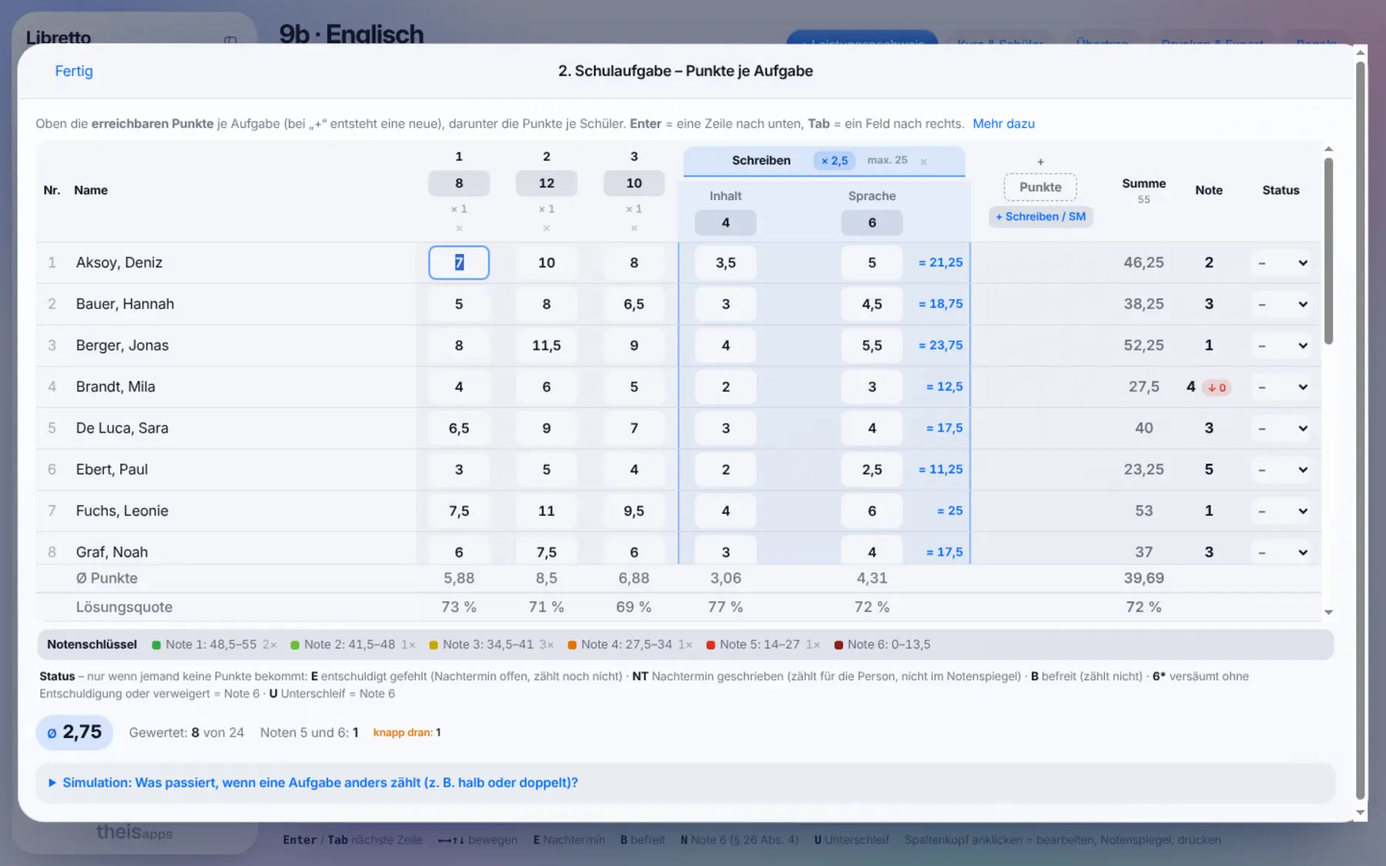
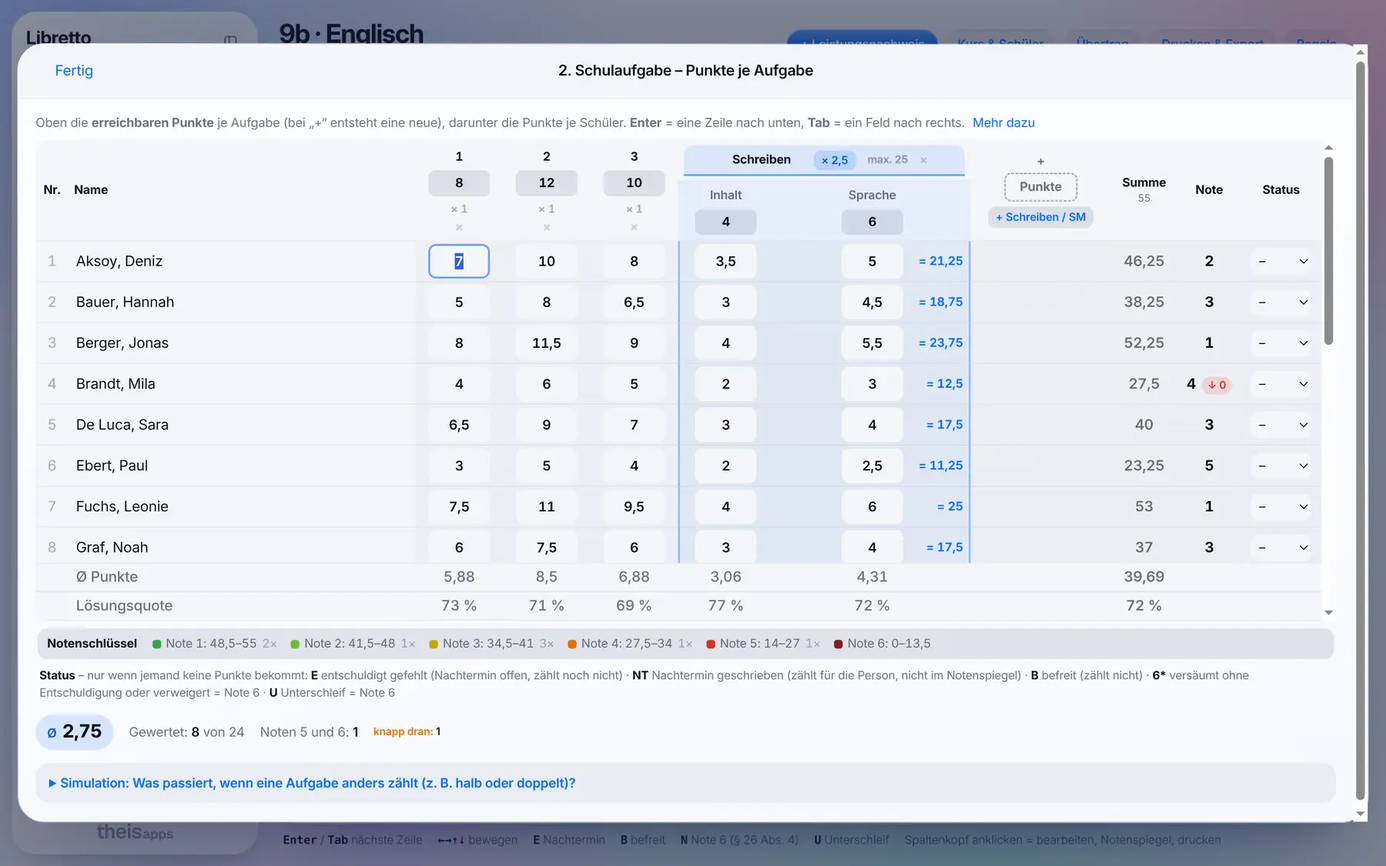
Libretto: schärfere Bildschirmfotos, neues Bild „Kurs aus mehreren Klassen“
Claude-Session: https://claude.ai/code/session_01CYga6QpGAYaLVUB4AhPBBg

diff --git a/libretto/index.html b/libretto/index.html
@@ -40,7 +40,7 @@
 <a class="crumb" href="../#programme">Programme / Libretto</a>
 <div class="ah"><div><div class="id"><img src="../assets/img/libretto-icon.png?v=ca2144a5" alt="Libretto App-Symbol" width="72" height="72" style="view-transition-name:ic-libretto"><span class="badge">Version 1.1</span></div><h1>Noten führen, ohne <span class="hl">nachzurechnen</span></h1></div>
 <div class="r"><p>Noten eintragen, rechnen, ausdrucken – nach GSO, für alle Fächer von der 5. Klasse bis zum Abitur. Kostenlos, ohne Konto, die Daten bleiben verschlüsselt auf Ihrem Computer.</p><div class="btns"><a class="btn" href="#laden" data-dl="libretto">Herunterladen</a><a class="btn sec" href="demo/">Online-Demo ausprobieren</a></div><p class="small">Für Mac ab macOS 13 und Windows 10/11. Die Online-Demo arbeitet mit erfundenen Klassen und speichert nichts. <a href="#neu">Neu: am Mac mit Touch ID entsperren, das W-Seminar mit Bewertungsbögen nach der Vorlage des ISB, Fristen fürs Notenmachen und das Leistungsfach Sport</a></p></div></div>
-<div class="app-stage"><div class="laptop"><div class="scr"><img src="../assets/img/libretto-neu-uebersicht.webp?v=29883ae1" alt="Libretto: Übersicht beim Öffnen mit Zu erledigen, Als Nächstes und allen Klassen und Kursen" width="1800" height="1125" decoding="async"></div><div class="base"></div></div></div>
+<div class="app-stage"><div class="laptop"><div class="scr"><img src="../assets/img/libretto-neu-uebersicht.webp?v=f0e8310c" alt="Libretto: Übersicht beim Öffnen mit Zu erledigen, Als Nächstes und allen Klassen und Kursen" width="1800" height="1125" decoding="async"></div><div class="base"></div></div></div>
 <div class="facts"><div><b>Rechnet nach</b><span>GSO, KMK und ISB</span></div><div><b>Läuft auf</b><span>Mac und Windows</span></div><div><b>Daten</b><span>verschlüsselt, nur lokal</span></div><div><b>Preis</b><span>kostenlos</span></div></div>
 <div class="why"><div><h3>Rechnet, wie es in Bayern vorgeschrieben ist</h3><p>Zeugnisnote nach § 28, Halbjahresleistungen nach § 29 GSO, Notenschlüssel nach dem KMK-Raster oder dem Beschluss Ihrer Fachschaft.</p></div><div><h3>Für den Alltag gebaut</h3><p>Note tippen, Enter, nächste Person. Beim Öffnen sehen Sie, was fehlt und was ansteht.</p></div><div><h3>Ihre Daten gehören Ihnen</h3><p>Kein Server, kein Konto, AES-256-Verschlüsselung und automatische Sicherung auf USB-Stick oder Cloud-Ordner.</p></div></div><div class="neu" id="neu"><div class="neu-hd"><span class="neu-tag">Neu in Libretto</span><h2>Was Libretto jetzt zusätzlich kann</h2></div>
 <div class="neu-grid">
@@ -52,12 +52,12 @@
 <article class="neu-card wide list"><h3>Außerdem neu</h3><ul class="neu-list"><li><b>Leistungsfach Sport.</b> Fach Sport und Sporttheorie in einem Kurs, die Endpunktzahl genau nach der Bekanntmachung des Kultusministeriums.</li><li><b>Wie die Rechentabelle des ISB.</b> Hörverstehen in Q12/Q13 rechnet Libretto genau wie die Rechentabelle, dazu Vorlagen für Schulaufgaben nach dem ISB-Leitfaden.</li><li><b>Gastschüler.</b> Mit Zeitraum anlegen; ihre Noten zählen oder werden nur dokumentiert.</li><li><b>Zwischensumme im Aufgabenblatt.</b> Für Schreibaufgabe und Sprachmittlung, z. B. (4 + 6) × 2 = 20, zum Übertragen auf den Korrekturbogen.</li><li><b>An den Datenschutz gedacht.</b> Libretto erinnert an alte Kurse, die nach LDO § 14a gelöscht werden müssen. Löschen oder bewusst behalten, gelöscht wird nie von selbst.</li></ul></article>
 </div></div><div class="fx"><div class="tx"><h2>Übersicht beim Öffnen</h2><p>Libretto zeigt gleich, was zu tun ist: fehlende Noten mit Rückgabefrist nach § 25 GSO, offene Nachtermine, die nächsten vier Wochen, den Durchschnitt je Kurs und die nächsten Fristen fürs Notenmachen (Notenschluss, Zwischenbericht, Zeugnistermine). Links liegen Suche, Kalender, Sicherung und alle Klassen und Kurse.</p><ul class="ticks"><li>Notenverteilung je Kurs auf einen Blick</li><li>Kurse nach Stufen: Unter- und Mittelstufe, Oberstufe ab Jahrgangsstufe 11, Seminare eigens</li><li>Suche nach Schüler oder Kurs mit Strg+K bzw. ⌘K</li><li>Neuer Leistungsnachweis, Übertrag und Notenliste mit einem Klick</li><li>Stand der letzten Sicherung immer sichtbar</li></ul></div>
 <div class="pic"><img src="../assets/img/libretto-uebersicht-notenverteilung.webp?v=57071682" alt="Libretto: Übersicht mit Zu erledigen, Als Nächstes und der Notenverteilung je Kurs" width="1440" height="900" loading="lazy" decoding="async"></div></div><div class="fx rev"><div class="tx"><h2>Acht Farbwelten, sechs Schriften</h2><p>Liquid Glass, Apple, Neon, Heft, Graphit, Laguna, Glut und Wald, jeweils hell und dunkel, auf Wunsch automatisch mit dem Gerät. Dazu sechs Schriften, darunter eine besonders gut lesbare, und eine größere Textgröße für große Bildschirme und den Beamer. Ausdrucke und Notenfarben bleiben immer gleich.</p><ul class="ticks"><li>Einstellen unter Einstellungen und Aussehen</li><li>Gilt nur auf dem jeweiligen Gerät</li><li>In der Demo im Browser zum Ausprobieren</li></ul></div>
-<div class="pic t"><img src="../assets/img/libretto-neu-einstellungen.webp?v=253b3f9f" alt="Libretto: Einstellungen, Bereich Aussehen mit acht Farbwelten, Helligkeit, sechs Schriften und Textgröße" width="1800" height="1125" loading="lazy" decoding="async"></div></div><div class="fx"><div class="tx"><h2>Schnell eintragen, sicher rechnen</h2><p>Noten tippen wie im Infoportal: Note, Enter, nächste Person. Durchschnitte, Gewichtung und Zeugnisnote nach § 28 GSO stehen sofort da, der Klassendurchschnitt unter jeder Spalte.</p><ul class="ticks"><li>Kürzel E (entschuldigt), B (befreit), 6* (versäumt, § 26 Abs. 4) und U (Unterschleif)</li><li>„Rückgängig“, wenn Sie eine Note überschreiben</li><li>Zeugnisnote als Vorschlag, Grenzfälle markiert</li><li>Übertragsliste zum Abhaken: Was steht schon im Infoportal?</li></ul></div>
-<div class="pic"><img src="../assets/img/libretto-neu-tabelle.webp?v=a308d531" alt="Libretto: Notentabelle einer 9. Klasse mit großen und kleinen Leistungsnachweisen, Durchschnitten und Zeugnisnote" width="1800" height="1125" loading="lazy" decoding="async"></div></div><div class="fx rev"><div class="tx"><h2>Punkte rein, Note raus</h2><p>Gesamtpunkte oder Punkte je Aufgabe eingeben, auch direkt aus Excel. Libretto rechnet mit den Prozentgrenzen Ihrer Fachschaft oder nach dem KMK-Raster – und rundet dabei genau wie die amtlichen BE-Tabellen.</p><ul class="ticks"><li>Lösungsquote je Aufgabe</li><li>Aufgaben nachträglich halb oder doppelt werten</li><li>Simulationen: „Was wäre, wenn die 4 bei 55 % beginnt?“ oder „Was wäre, wenn Aufgabe 2 nur halb zählt?“ – mit der ganzen Klassenliste, auch zum Ausdrucken</li><li>Nachtermine zählen für die Person, aber nicht im Notenspiegel der Arbeit (NT)</li></ul></div>
-<div class="pic t"><img src="../assets/img/libretto-neu-aufgaben.webp?v=cf14b25b" alt="Libretto: Punkte je Aufgabe mit Zwischensumme für Schreibaufgabe, Notenschlüssel und Lösungsquote" width="1800" height="1125" loading="lazy" decoding="async"></div></div><div class="fx"><div class="tx"><h2>Für jedes Fach das Passende</h2><p>Libretto kennt die Besonderheiten der Fächer und wählt die passende Rechnung vor.</p><ul class="ticks"><li><b>Moderne Fremdsprachen 5–11:</b> Schreibaufgabe und Sprachmittlung mit Inhalt und Sprache (4 + 6 bzw. 3 + 7) als eine Aufgabe</li><li><b>Q12/13:</b> Klausur nach Prüfungsteilen wie die Rechentabelle des ISB, mit Teilnoten und Sperrklausel</li><li><b>Latein und Griechisch:</b> zweigeteilte Schulaufgabe mit der Gewichtung nach Jahrgangsstufe</li><li><b>Mathematik und Naturwissenschaften:</b> KMK-Raster vorgewählt</li><li><b>Sport, Kunst und Musik als Leistungsfach:</b> Halbjahresleistung nach § 29 Abs. 3–5 GSO</li></ul></div>
-<div class="pic"><img src="../assets/img/libretto-neu-latein.webp?v=28a81eb4" alt="Libretto: zweigeteilte Schulaufgabe in Latein, Übersetzung und Aufgabenteil mit Gewichtung" width="1800" height="1125" loading="lazy" decoding="async"></div></div><div class="fx rev"><div class="tx"><h2>Das W-Seminar auf einer Karte</h2><p>Thema, Beratungsgespräche mit Zielvereinbarung, abgegebene Dateien und die Abgabe mit Frist. Seminararbeit und Prüfungsgespräch bewerten Sie mit den Bögen nach der Vorlage des ISB, Libretto rechnet die Gesamtleistung nach § 29 GSO und weist auf offene Punkte hin. Das P-Seminar ist ebenso dabei, beide Seminare mit ihrem Leitfach.</p><ul class="ticks"><li>Protokoll zum Unterschreiben</li><li>Bewertungsbögen für Seminararbeit und Prüfungsgespräch als PDF oder Word, auch leer</li><li>Terminliste der Prüfungsgespräche und Kurztitel fürs Abiturzeugnis</li><li>Seminararbeit aller Schüler auf einen Blick, mit Countdown</li><li>Die Entscheidung über Zulassung und Fristen bleibt bei der Schule</li></ul></div>
-<div class="pic"><img src="../assets/img/libretto-neu-betreuung.webp?v=00c9c70f" alt="Libretto: Betreuungskarte im W-Seminar mit Thema, Punkten und Betreuungsterminen" width="1800" height="1125" loading="lazy" decoding="async"></div></div><div class="fx"><div class="tx"><h2>Ein Kurs, mehrere Klassen</h2><p>Englisch in der 9. Jahrgangsstufe, aber Schüler aus 9a und 9b? Libretto führt jeden Schüler mit seiner Klasse, sortiert Übersicht und Ausdrucke nach Klassen und rechnet den Kurs trotzdem als Ganzes.</p></div>
-<div class="pic t"><img src="../assets/img/libretto-gemischt.webp?v=d5e7bfff" alt="Libretto: Notentabelle eines Kurses aus zwei Klassen, nach Klassen gegliedert" width="1440" height="860" loading="lazy" decoding="async"></div></div><section class="s"><h2>Und außerdem</h2><div class="grid"><div><h3>Kalender</h3><p>Alle Schulaufgaben mit Prüfung nach § 22 GSO (höchstens ein großer schriftlicher Leistungsnachweis am Tag, möglichst nicht mehr als zwei pro Woche), Ferien und Feiertage in Bayern, Schultermine aus dem Infoportal, auch als Abo, und die Fristen fürs Notenmachen, auf Wunsch direkt aus den Schulterminen übernommen.</p></div><div><h3>Professionelle Ausdrucke</h3><p>PDF, Word oder Excel: Durchschnitt groß, Notenspiegel, Notenschlüssel und die „Auswertung für die Fachbetreuung“ mit Unterschriftsfeldern.</p></div><div><h3>Elternsprechtag</h3><p>Alle Noten einer Person groß auf einen Blick, mit ← und → zur nächsten.</p></div><div><h3>Nachteilsausgleich und Notenschutz</h3><p>Eine Marke am Namen erinnert daran, mit Hinweis auf den Zeugnisvermerk.</p></div><div><h3>Einstieg mitten im Jahr</h3><p>Ein Notenblatt als PDF einlesen. Erst kommt eine Vorschau, bestehende Daten werden nie überschrieben.</p></div><div><h3>Klassen austauschen</h3><p>Klassen und Kurse als Datei „theis-Klassen“ an andere Programme von theisapps weitergeben, ohne Noten. Noten aus Voce übernehmen.</p></div><div><h3>Ausführliche Hilfe</h3><p>Mit Suche, Szenarien für Fachlehrkraft, Klassenleitung, Oberstufe und Fachbetreuung und einem Quellenverzeichnis. Auch als Handbuch-PDF zum Ausdrucken.</p></div><div><h3>Acht Farbwelten</h3><p>Hell oder dunkel, auf Wunsch automatisch, dazu sechs Schriften. Ausdrucke und Notenfarben bleiben immer gleich.</p></div><div><h3>Ein Kurs, viele Fächer</h3><p>Von der 5. Klasse bis zum Abitur, Unter-, Mittel- und Oberstufe in einer Datei.</p></div></div></section><div class="pair"><figure><div class="pic"><img src="../assets/img/libretto-kalender-abo.webp?v=f95916ab" alt="Libretto: Kalender mit Leistungsnachweisen, Ferien und abonniertem Schulkalender" width="1440" height="1000" loading="lazy" decoding="async"></div><figcaption>Der Kalender im November mit Schulaufgaben, Schulterminen und Ferien.</figcaption></figure><figure><div class="pic"><img src="../assets/img/libretto-neu-schuelerblatt.webp?v=f9205d5f" alt="Libretto: Schülerblatt mit allen Leistungsnachweisen und Zeugnisnote" width="1800" height="1125" loading="lazy" decoding="async"></div><figcaption>Das Schülerblatt mit allen Leistungsnachweisen und dem Ergebnis.</figcaption></figure></div><section class="s basis" id="grundlagen"><div class="basis-in"><div><p class="kick">Mit Hand und Fuß</p><h2>Worauf sich Libretto stützt</h2><p>Libretto stützt sich auf die Vorschriften für das bayerische Gymnasium (Stand November 2026).</p><ul class="refs"><li><b>Gymnasialschulordnung (GSO)</b> in der ab 01.08.2026 geltenden Fassung – u. a. § 22 Schulaufgaben, § 24 Seminararbeit und Prüfungsgespräch, § 25 Rückgabe, § 40 Zwischenzeugnis bzw. Information über das Notenbild, § 26 Bewertung, § 27 Nachtermin, § 28 Jahresfortgangsnote, § 29 Halbjahresleistungen in Q12/13, § 44 Zulassung (Hinweise zur Seminararbeit)</li><li><b>BayEUG Art. 52</b> (Leistungsnachweise) und <b>BaySchO</b> (Nachteilsausgleich, Notenschutz)</li><li><b>Schreiben des Kultusministeriums</b>, z. B. zur zweigeteilten Schulaufgabe in Latein und Griechisch (31.07.2023), zu den Prüfungsformen in den modernen Fremdsprachen und zur „Weiterentwicklung der Prüfungskultur“ (18.06.2026) und zum Prüfungsgespräch im W-Seminar (02.02.2026); <b>ISB-Materialien zum W-Seminar</b> (Bewertungsbögen, Beratungsgespräche)</li><li><b>Bewertungsraster, Rechentabellen und Leitfäden des ISB</b> für die modernen Fremdsprachen (z. B. „ausreichend“ ab 50 %, „mangelhaft“ ab 33 % bei BE-Bewertung)</li><li><b>KMK-Vereinbarung zur gymnasialen Oberstufe</b> (Beschluss vom 07.07.1972 in der Fassung vom 06.06.2024; Prozentgrenzen für die Notenpunkte)</li><li><b>Ferienordnung</b> des Kultusministeriums bis 2029/30</li><li><b>Bekanntmachung zum Sportunterricht in Q12/Q13</b> (Leistungsfach Sport) und <b>Lehrerdienstordnung § 14a</b> (Löschfristen)</li><li><b>Mindestsicherheitsstandards des Kultusministeriums</b> für private Endgeräte (Verschlüsselung, automatische Sperre)</li></ul><p>Was Schule und Fachschaft selbst festlegen – etwa den Notenschlüssel oder die Gewichtung der kleinen Leistungsnachweise –, stellen Sie in Libretto ein. Alle Rechtsgrundlagen stehen in Libretto in einem Quellenverzeichnis – mit Fundstelle und Link zu jedem Original, auch als PDF.</p><p class="small">Libretto ist keine amtliche Software und ersetzt nicht die Notendokumentation der Schule. Für Noten auf privaten Geräten ist die Genehmigung der Schulleitung nötig.</p></div><div class="pic"><img src="../assets/img/libretto-quellen.webp?v=6503bfe6" alt="Libretto: Quellenverzeichnis als PDF mit Gesetzen und Verordnungen, Verwendung in Libretto und Fundstelle" width="911" height="670" loading="lazy" decoding="async"></div></div></section><section class="s" id="video" style="scroll-margin-top:90px"><h2>Libretto in gut einer Minute</h2><p class="lead">Die Highlights: Übersicht beim Öffnen, Noten eintragen, Notenschlüssel mit Notenspiegel, Simulation, W-Seminar, Fristen, alle Fächer, Farbwelten und Datenschutz. Ohne Ton. Alle Namen sind erfunden.</p>
+<div class="pic t"><img src="../assets/img/libretto-neu-einstellungen.webp?v=1f6dcffb" alt="Libretto: Einstellungen, Bereich Aussehen mit acht Farbwelten, Helligkeit, sechs Schriften und Textgröße" width="1800" height="1125" loading="lazy" decoding="async"></div></div><div class="fx"><div class="tx"><h2>Schnell eintragen, sicher rechnen</h2><p>Noten tippen wie im Infoportal: Note, Enter, nächste Person. Durchschnitte, Gewichtung und Zeugnisnote nach § 28 GSO stehen sofort da, der Klassendurchschnitt unter jeder Spalte.</p><ul class="ticks"><li>Kürzel E (entschuldigt), B (befreit), 6* (versäumt, § 26 Abs. 4) und U (Unterschleif)</li><li>„Rückgängig“, wenn Sie eine Note überschreiben</li><li>Zeugnisnote als Vorschlag, Grenzfälle markiert</li><li>Übertragsliste zum Abhaken: Was steht schon im Infoportal?</li></ul></div>
+<div class="pic"><img src="../assets/img/libretto-neu-tabelle.webp?v=df9636c4" alt="Libretto: Notentabelle einer 9. Klasse mit großen und kleinen Leistungsnachweisen, Durchschnitten und Zeugnisnote" width="1800" height="1125" loading="lazy" decoding="async"></div></div><div class="fx rev"><div class="tx"><h2>Punkte rein, Note raus</h2><p>Gesamtpunkte oder Punkte je Aufgabe eingeben, auch direkt aus Excel. Libretto rechnet mit den Prozentgrenzen Ihrer Fachschaft oder nach dem KMK-Raster – und rundet dabei genau wie die amtlichen BE-Tabellen.</p><ul class="ticks"><li>Lösungsquote je Aufgabe</li><li>Aufgaben nachträglich halb oder doppelt werten</li><li>Simulationen: „Was wäre, wenn die 4 bei 55 % beginnt?“ oder „Was wäre, wenn Aufgabe 2 nur halb zählt?“ – mit der ganzen Klassenliste, auch zum Ausdrucken</li><li>Nachtermine zählen für die Person, aber nicht im Notenspiegel der Arbeit (NT)</li></ul></div>
+<div class="pic t"><img src="../assets/img/libretto-neu-aufgaben.webp?v=bd381697" alt="Libretto: Punkte je Aufgabe mit Zwischensumme für Schreibaufgabe, Notenschlüssel und Lösungsquote" width="1800" height="1125" loading="lazy" decoding="async"></div></div><div class="fx"><div class="tx"><h2>Für jedes Fach das Passende</h2><p>Libretto kennt die Besonderheiten der Fächer und wählt die passende Rechnung vor.</p><ul class="ticks"><li><b>Moderne Fremdsprachen 5–11:</b> Schreibaufgabe und Sprachmittlung mit Inhalt und Sprache (4 + 6 bzw. 3 + 7) als eine Aufgabe</li><li><b>Q12/13:</b> Klausur nach Prüfungsteilen wie die Rechentabelle des ISB, mit Teilnoten und Sperrklausel</li><li><b>Latein und Griechisch:</b> zweigeteilte Schulaufgabe mit der Gewichtung nach Jahrgangsstufe</li><li><b>Mathematik und Naturwissenschaften:</b> KMK-Raster vorgewählt</li><li><b>Sport, Kunst und Musik als Leistungsfach:</b> Halbjahresleistung nach § 29 Abs. 3–5 GSO</li></ul></div>
+<div class="pic"><img src="../assets/img/libretto-neu-latein.webp?v=f05cd52e" alt="Libretto: zweigeteilte Schulaufgabe in Latein, Übersetzung und Aufgabenteil mit Gewichtung" width="1800" height="1125" loading="lazy" decoding="async"></div></div><div class="fx rev"><div class="tx"><h2>Das W-Seminar auf einer Karte</h2><p>Thema, Beratungsgespräche mit Zielvereinbarung, abgegebene Dateien und die Abgabe mit Frist. Seminararbeit und Prüfungsgespräch bewerten Sie mit den Bögen nach der Vorlage des ISB, Libretto rechnet die Gesamtleistung nach § 29 GSO und weist auf offene Punkte hin. Das P-Seminar ist ebenso dabei, beide Seminare mit ihrem Leitfach.</p><ul class="ticks"><li>Protokoll zum Unterschreiben</li><li>Bewertungsbögen für Seminararbeit und Prüfungsgespräch als PDF oder Word, auch leer</li><li>Terminliste der Prüfungsgespräche und Kurztitel fürs Abiturzeugnis</li><li>Seminararbeit aller Schüler auf einen Blick, mit Countdown</li><li>Die Entscheidung über Zulassung und Fristen bleibt bei der Schule</li></ul></div>
+<div class="pic"><img src="../assets/img/libretto-neu-betreuung.webp?v=614894a2" alt="Libretto: Betreuungskarte im W-Seminar mit Thema, Punkten und Betreuungsterminen" width="1800" height="1125" loading="lazy" decoding="async"></div></div><div class="fx"><div class="tx"><h2>Ein Kurs, mehrere Klassen</h2><p>Englisch in der 9. Jahrgangsstufe, aber Schüler aus 9a und 9b? Libretto führt jeden Schüler mit seiner Klasse, sortiert Übersicht und Ausdrucke nach Klassen und rechnet den Kurs trotzdem als Ganzes.</p></div>
+<div class="pic t"><img src="../assets/img/libretto-neu-gemischt.webp?v=415511d7" alt="Libretto: Notentabelle eines Kurses aus zwei Klassen, nach Klassen gegliedert" width="1800" height="1125" loading="lazy" decoding="async"></div></div><section class="s"><h2>Und außerdem</h2><div class="grid"><div><h3>Kalender</h3><p>Alle Schulaufgaben mit Prüfung nach § 22 GSO (höchstens ein großer schriftlicher Leistungsnachweis am Tag, möglichst nicht mehr als zwei pro Woche), Ferien und Feiertage in Bayern, Schultermine aus dem Infoportal, auch als Abo, und die Fristen fürs Notenmachen, auf Wunsch direkt aus den Schulterminen übernommen.</p></div><div><h3>Professionelle Ausdrucke</h3><p>PDF, Word oder Excel: Durchschnitt groß, Notenspiegel, Notenschlüssel und die „Auswertung für die Fachbetreuung“ mit Unterschriftsfeldern.</p></div><div><h3>Elternsprechtag</h3><p>Alle Noten einer Person groß auf einen Blick, mit ← und → zur nächsten.</p></div><div><h3>Nachteilsausgleich und Notenschutz</h3><p>Eine Marke am Namen erinnert daran, mit Hinweis auf den Zeugnisvermerk.</p></div><div><h3>Einstieg mitten im Jahr</h3><p>Ein Notenblatt als PDF einlesen. Erst kommt eine Vorschau, bestehende Daten werden nie überschrieben.</p></div><div><h3>Klassen austauschen</h3><p>Klassen und Kurse als Datei „theis-Klassen“ an andere Programme von theisapps weitergeben, ohne Noten. Noten aus Voce übernehmen.</p></div><div><h3>Ausführliche Hilfe</h3><p>Mit Suche, Szenarien für Fachlehrkraft, Klassenleitung, Oberstufe und Fachbetreuung und einem Quellenverzeichnis. Auch als Handbuch-PDF zum Ausdrucken.</p></div><div><h3>Acht Farbwelten</h3><p>Hell oder dunkel, auf Wunsch automatisch, dazu sechs Schriften. Ausdrucke und Notenfarben bleiben immer gleich.</p></div><div><h3>Ein Kurs, viele Fächer</h3><p>Von der 5. Klasse bis zum Abitur, Unter-, Mittel- und Oberstufe in einer Datei.</p></div></div></section><div class="pair"><figure><div class="pic"><img src="../assets/img/libretto-kalender-abo.webp?v=f95916ab" alt="Libretto: Kalender mit Leistungsnachweisen, Ferien und abonniertem Schulkalender" width="1440" height="1000" loading="lazy" decoding="async"></div><figcaption>Der Kalender im November mit Schulaufgaben, Schulterminen und Ferien.</figcaption></figure><figure><div class="pic"><img src="../assets/img/libretto-neu-schuelerblatt.webp?v=38f1e36a" alt="Libretto: Schülerblatt mit allen Leistungsnachweisen und Zeugnisnote" width="1800" height="1125" loading="lazy" decoding="async"></div><figcaption>Das Schülerblatt mit allen Leistungsnachweisen und dem Ergebnis.</figcaption></figure></div><section class="s basis" id="grundlagen"><div class="basis-in"><div><p class="kick">Mit Hand und Fuß</p><h2>Worauf sich Libretto stützt</h2><p>Libretto stützt sich auf die Vorschriften für das bayerische Gymnasium (Stand November 2026).</p><ul class="refs"><li><b>Gymnasialschulordnung (GSO)</b> in der ab 01.08.2026 geltenden Fassung – u. a. § 22 Schulaufgaben, § 24 Seminararbeit und Prüfungsgespräch, § 25 Rückgabe, § 40 Zwischenzeugnis bzw. Information über das Notenbild, § 26 Bewertung, § 27 Nachtermin, § 28 Jahresfortgangsnote, § 29 Halbjahresleistungen in Q12/13, § 44 Zulassung (Hinweise zur Seminararbeit)</li><li><b>BayEUG Art. 52</b> (Leistungsnachweise) und <b>BaySchO</b> (Nachteilsausgleich, Notenschutz)</li><li><b>Schreiben des Kultusministeriums</b>, z. B. zur zweigeteilten Schulaufgabe in Latein und Griechisch (31.07.2023), zu den Prüfungsformen in den modernen Fremdsprachen und zur „Weiterentwicklung der Prüfungskultur“ (18.06.2026) und zum Prüfungsgespräch im W-Seminar (02.02.2026); <b>ISB-Materialien zum W-Seminar</b> (Bewertungsbögen, Beratungsgespräche)</li><li><b>Bewertungsraster, Rechentabellen und Leitfäden des ISB</b> für die modernen Fremdsprachen (z. B. „ausreichend“ ab 50 %, „mangelhaft“ ab 33 % bei BE-Bewertung)</li><li><b>KMK-Vereinbarung zur gymnasialen Oberstufe</b> (Beschluss vom 07.07.1972 in der Fassung vom 06.06.2024; Prozentgrenzen für die Notenpunkte)</li><li><b>Ferienordnung</b> des Kultusministeriums bis 2029/30</li><li><b>Bekanntmachung zum Sportunterricht in Q12/Q13</b> (Leistungsfach Sport) und <b>Lehrerdienstordnung § 14a</b> (Löschfristen)</li><li><b>Mindestsicherheitsstandards des Kultusministeriums</b> für private Endgeräte (Verschlüsselung, automatische Sperre)</li></ul><p>Was Schule und Fachschaft selbst festlegen – etwa den Notenschlüssel oder die Gewichtung der kleinen Leistungsnachweise –, stellen Sie in Libretto ein. Alle Rechtsgrundlagen stehen in Libretto in einem Quellenverzeichnis – mit Fundstelle und Link zu jedem Original, auch als PDF.</p><p class="small">Libretto ist keine amtliche Software und ersetzt nicht die Notendokumentation der Schule. Für Noten auf privaten Geräten ist die Genehmigung der Schulleitung nötig.</p></div><div class="pic"><img src="../assets/img/libretto-quellen.webp?v=6503bfe6" alt="Libretto: Quellenverzeichnis als PDF mit Gesetzen und Verordnungen, Verwendung in Libretto und Fundstelle" width="911" height="670" loading="lazy" decoding="async"></div></div></section><section class="s" id="video" style="scroll-margin-top:90px"><h2>Libretto in gut einer Minute</h2><p class="lead">Die Highlights: Übersicht beim Öffnen, Noten eintragen, Notenschlüssel mit Notenspiegel, Simulation, W-Seminar, Fristen, alle Fächer, Farbwelten und Datenschutz. Ohne Ton. Alle Namen sind erfunden.</p>
 <div class="vid"><video controls playsinline preload="none" poster="../assets/img/libretto-demo-poster.webp?v=0b30fffc" width="1920" height="1080" aria-label="Video: Libretto in gut einer Minute"><source src="../assets/video/libretto-demo.mp4?v=28f0aac5" type="video/mp4"></video></div></section><section class="s"><div class="two"><div><h2>Ihre Noten sind sicher</h2><p>Libretto verschlüsselt alle Noten mit Ihrem Passwort und sperrt sich nach einigen Minuten ohne Eingabe. Es gibt keinen Server und kein Konto, niemand außer Ihnen kann die Daten lesen.</p><p>Sicherungen entstehen automatisch, auf Wunsch zusätzlich auf einem USB-Stick oder in Ihrer Cloud, ebenfalls verschlüsselt. Gelöschtes lässt sich 60 Tage lang wiederherstellen.</p></div>
 <div class="a-libretto"><ul class="ticks"><li>Verschlüsselt mit AES-256</li><li>Jede Speicherung wird geprüft, der vorherige Stand bleibt erhalten</li><li>Notfallschlüssel zum Ausdrucken, falls Sie das Passwort vergessen</li><li>Bei Updates bleiben alle Daten erhalten</li></ul><p class="small" style="margin-top:18px">Für Noten auf privaten Geräten ist in Bayern die Genehmigung der Schulleitung nötig.</p></div></div></section><section class="s inst" id="laden" style="scroll-margin-top:90px"><h2>Herunterladen und einrichten</h2><div class="seg" role="tablist" aria-label="Gerät"><button type="button" role="tab" aria-selected="true" data-t="mac">Mac</button><button type="button" role="tab" aria-selected="false" data-t="win">Windows</button><button type="button" role="tab" aria-selected="false" data-t="upd">Update</button></div><div data-p="mac"><div class=btns><a class="btn" href="https://github.com/theisjulian/app/releases/download/1.1/Libretto-Mac.dmg">Für Mac laden</a><a class="btn sec" href="https://github.com/theisjulian/app/releases/download/1.1/Libretto-Mac-Intel.dmg">Für Macs mit Intel</a><a class="btn line" href="Libretto-am-Mac-oeffnen.pdf" download>Erster Start: Anleitung (PDF)</a></div><ol><li>Libretto 1.1 braucht macOS 13 (Ventura) oder neuer. Die passende Version laden: Apple-Chip (M1 und neuer, 120 MB) oder Intel (124 MB). Welcher Prozessor drinsteckt, zeigt das Apple-Menü unter „Über diesen Mac“.</li><li>Die DMG-Datei per Doppelklick öffnen und Libretto im Fenster auf den Ordner „Programme“ ziehen.</li><li>Beim ersten Öffnen fragt macOS einmalig nach, weil Libretto nicht bei Apple registriert ist: App einmal öffnen, dann <i>Systemeinstellungen, Datenschutz &amp; Sicherheit</i> und ganz unten „Dennoch öffnen“. Die Anleitung dazu liegt auch im Installationsfenster.</li><li>Passwort festlegen, Notfallschlüssel ausdrucken, Sicherungsordner wählen.</li></ol><p class="small">Älterer Mac mit macOS 11 oder 12? Dann Libretto 1.0 verwenden: <a href="https://github.com/theisjulian/app/releases/download/1.0.12/Libretto-Mac.zip">Apple-Chip</a> · <a href="https://github.com/theisjulian/app/releases/download/1.0.12/Libretto-Mac-Intel.zip">Intel</a>. Sie wird nicht mehr weiterentwickelt, rechnet aber richtig; die Daten sind mit Libretto 1.1 kompatibel.</p></div><div data-p="win" hidden><div class=btns><a class="btn" href="https://github.com/theisjulian/app/releases/download/1.1/Libretto-Windows-Setup.exe">Für Windows laden</a></div><ol><li>Für Windows 10 und 11 (64 Bit), 116 MB.</li><li><i>Libretto-Windows-Setup.exe</i> doppelklicken. Sie brauchen keine Administratorrechte.</li><li>Erscheint „Der Computer wurde durch Windows geschützt“: „Weitere Informationen“ und dann „Trotzdem ausführen“ wählen. Das Programm ist nicht bei Microsoft zertifiziert, aber unbedenklich.</li><li>Passwort festlegen, Notfallschlüssel ausdrucken, Sicherungsordner wählen.</li></ol></div><div data-p="upd" hidden><ol><li>Libretto zeigt beim Start an, wenn es eine neue Version gibt.</li><li>Die neue Version einfach darüber installieren. Ist Libretto unter Windows noch geöffnet, bittet das Installationsprogramm, es zuerst zu schließen. Die Noten liegen getrennt vom Programm und bleiben erhalten.</li><li>Vor jedem Update legt Libretto automatisch eine Sicherung an.</li></ol></div></section><section class="s reads-s" id="nachlesen"><div class="reads"><h2>Zum Nachlesen</h2><ul><li><a href="Libretto-Handbuch.pdf" download><span class="ft">PDF</span><span><b>Handbuch</b><small>Alles von den ersten Schritten bis zum W-Seminar, mit Bildern, Szenarien und häufigen Fragen · 31 Seiten · 3 MB</small></span></a></li><li><a href="Libretto-Quellenverzeichnis.pdf" download><span class="ft">PDF</span><span><b>Quellenverzeichnis</b><small>Alle Rechtsgrundlagen und Vorgaben, nach denen Libretto rechnet, mit Fundstelle und Link · 6 Seiten · 0,2 MB</small></span></a></li><li><a href="Libretto-am-Mac-oeffnen.pdf" download><span class="ft">PDF</span><span><b>Libretto am Mac öffnen</b><small>Der erste Start in vier Schritten – ideal zum Weitergeben an Kolleginnen und Kollegen · 1 Seite · 0,3 MB</small></span></a></li></ul></div></section><section class="s"><div class="faq"><div><h2>Fragen zu Libretto</h2></div><div><details class="q"><summary>Ersetzt Libretto das Notenprogramm der Schule?</summary><p>Nein. Libretto ist Ihr persönliches Notenheft. Die Noten tragen Sie wie gewohnt in das Programm Ihrer Schule ein, Libretto zeigt Ihnen, was noch offen ist.</p></details><details class="q"><summary>Was kostet Libretto?</summary><p>Nichts. Libretto ist kostenlos, ohne Konto und ohne Werbung.</p></details><details class="q"><summary>Ist Libretto amtliche Software?</summary><p>Nein. Libretto rechnet nach den Vorgaben der GSO und des ISB (siehe <a href="#grundlagen">Worauf sich Libretto stützt</a>), ist aber keine amtliche Software und ersetzt nicht die Notendokumentation der Schule. Für Noten auf privaten Geräten ist die Genehmigung der Schulleitung nötig.</p></details><details class="q"><summary>Fehler gefunden oder einen Wunsch?</summary><p>Schreiben Sie an <a class="em" data-u="hallo" data-d="theisapps.de" data-s="Libretto – Rückmeldung" href="../impressum#kontakt">hallo [at] theisapps.de</a>. Rückmeldungen aus dem Unterricht helfen sehr.</p></details></div></div></section><section class="s"><a class="next n-voce" href="../voce/"><span><small>Nächstes Programm</small><strong>Voce</strong><small>Mündliche Prüfungen</small></span><img src="../assets/img/viva-icon.png?v=860ed09d" alt="" width="76" height="76"></a></section></div>
 </main>

diff --git a/index.html b/index.html
@@ -42,14 +42,14 @@
 <div class="top"><h1>Software für den <span class="hl">Schulalltag</span> in Bayern</h1>
 <div class="r"><p>Sechs Programme für Noten, mündliche Prüfungen, Arbeitsblätter, den Unterricht, Sportwahl und Schülerfahrten. Entwickelt von einem Lehrer, erprobt im eigenen Unterricht.</p>
 <div class="btns"><a class="btn" href="#programme">Programme ansehen</a><a class="btn sec" href="libretto/demo/">Libretto im Browser testen</a></div></div></div>
-<div class="stage"><div class="laptop"><div class="scr"><img src="assets/img/libretto-neu-tabelle.webp?v=a308d531" alt="Libretto auf einem Laptop: Notentabelle einer 9. Klasse" width="1800" height="1125" fetchpriority="high"></div><div class="base"></div></div>
+<div class="stage"><div class="laptop"><div class="scr"><img src="assets/img/libretto-neu-tabelle.webp?v=df9636c4" alt="Libretto auf einem Laptop: Notentabelle einer 9. Klasse" width="1800" height="1125" fetchpriority="high"></div><div class="base"></div></div>
 <div class="phone" role="img" aria-label="’namo. auf dem Handy: Tagesübersicht einer Schülerfahrt"><div class="scr"><div class="sb"><span>10:40</span><i class="isl"></i><span class="ic"><svg viewBox="0 0 18 12" aria-hidden="true"><rect x="0" y="8" width="3" height="4" rx="1"/><rect x="5" y="5.5" width="3" height="6.5" rx="1"/><rect x="10" y="3" width="3" height="9" rx="1"/><rect x="15" y="0" width="3" height="12" rx="1"/></svg><svg viewBox="0 0 26 12" aria-hidden="true"><rect x=".5" y=".5" width="22" height="11" rx="3.5" fill="none" stroke="currentColor" opacity=".4"/><rect x="2.5" y="2.5" width="16" height="7" rx="2"/><rect x="23.5" y="4" width="2" height="4" rx="1" opacity=".4"/></svg></span></div><img src="assets/img/namo-screen.webp?v=aae414dc" alt="" width="786" height="1600" decoding="async"></div></div></div>
 <div class="dock"><a href="libretto/"><img src="assets/img/libretto-icon.png?v=ca2144a5" alt="" width="26" height="26">Libretto</a><a href="voce/"><img src="assets/img/viva-icon.png?v=860ed09d" alt="" width="26" height="26">Voce</a><a href="foliva/"><img src="assets/img/foliva-icon.png?v=f124768c" alt="" width="26" height="26">Foliva</a><a href="aula/"><img src="assets/img/aula-icon.png?v=ba62148b" alt="" width="26" height="26">Aula</a><a href="sportwahl/"><img src="assets/img/sportwahl-icon.svg?v=151a6d50" alt="" width="26" height="26">Sportivo</a><a href="namo/"><img src="assets/img/namo-icon.png?v=f5d706c6" alt="" width="26" height="26">’namo.</a><span class="small">Alle Namen in den Bildern sind erfunden.</span></div>
 </div></section>
 
 <section class="s" id="programme" style="scroll-margin-top:60px"><div class="w">
 <h2>Ein Programm für jede Aufgabe</h2><p class="lead">Jedes Programm macht eine Sache und macht sie gründlich. Fast alle laufen ohne Konto, die meisten ganz ohne Internet.</p>
-<div class="show"><nav class="idx" aria-label="Programme"><a href="#p-libretto"><img src="assets/img/libretto-icon.png?v=ca2144a5" alt="" width="38" height="38"><span><b>Libretto</b>Noten</span></a><a href="#p-voce"><img src="assets/img/viva-icon.png?v=860ed09d" alt="" width="38" height="38"><span><b>Voce</b>Mündliche Prüfungen</span></a><a href="#p-foliva"><img src="assets/img/foliva-icon.png?v=f124768c" alt="" width="38" height="38"><span><b>Foliva</b>Arbeitsblätter</span></a><a href="#p-aula"><img src="assets/img/aula-icon.png?v=ba62148b" alt="" width="38" height="38"><span><b>Aula</b>Klassenzimmer-Werkzeug</span></a><a href="#p-sportivo"><img src="assets/img/sportwahl-icon.svg?v=151a6d50" alt="" width="38" height="38"><span><b>Sportivo</b>Sportwahl</span></a><a href="#p-namo"><img src="assets/img/namo-icon.png?v=f5d706c6" alt="" width="38" height="38"><span><b>’namo.</b>Schülerfahrten</span></a></nav><div><article class="panel a-libretto" id="p-libretto"><div class="pic"><a class="pl" href="libretto/" tabindex="-1" aria-hidden="true"><img src="assets/img/libretto-neu-uebersicht.webp?v=29883ae1" alt="Libretto: Bildschirmfoto" width="1800" height="1125" loading="lazy" decoding="async"></a></div>
+<div class="show"><nav class="idx" aria-label="Programme"><a href="#p-libretto"><img src="assets/img/libretto-icon.png?v=ca2144a5" alt="" width="38" height="38"><span><b>Libretto</b>Noten</span></a><a href="#p-voce"><img src="assets/img/viva-icon.png?v=860ed09d" alt="" width="38" height="38"><span><b>Voce</b>Mündliche Prüfungen</span></a><a href="#p-foliva"><img src="assets/img/foliva-icon.png?v=f124768c" alt="" width="38" height="38"><span><b>Foliva</b>Arbeitsblätter</span></a><a href="#p-aula"><img src="assets/img/aula-icon.png?v=ba62148b" alt="" width="38" height="38"><span><b>Aula</b>Klassenzimmer-Werkzeug</span></a><a href="#p-sportivo"><img src="assets/img/sportwahl-icon.svg?v=151a6d50" alt="" width="38" height="38"><span><b>Sportivo</b>Sportwahl</span></a><a href="#p-namo"><img src="assets/img/namo-icon.png?v=f5d706c6" alt="" width="38" height="38"><span><b>’namo.</b>Schülerfahrten</span></a></nav><div><article class="panel a-libretto" id="p-libretto"><div class="pic"><a class="pl" href="libretto/" tabindex="-1" aria-hidden="true"><img src="assets/img/libretto-neu-uebersicht.webp?v=f0e8310c" alt="Libretto: Bildschirmfoto" width="1800" height="1125" loading="lazy" decoding="async"></a></div>
 <div class="meta"><div><h3 class="nm"><a href="libretto/"><img src="assets/img/libretto-icon.png?v=ca2144a5" alt="" width="48" height="48">Libretto</a></h3><p>Noten führen und nach der GSO verrechnen, von der 5. Klasse bis Q13. Mit Notenschlüssel, Kalender, W-Seminar und acht Farbwelten.</p><p class="small st">Mac und Windows, Version 1.1, kostenlos · <a href="libretto/demo/">im Browser testen</a></p></div><a class="btn" href="libretto/">Libretto ansehen</a></div></article><article class="panel a-voce" id="p-voce"><div class="pic"><a class="pl" href="voce/" tabindex="-1" aria-hidden="true"><img src="assets/img/voce-bewerten.webp?v=b7374349" alt="Voce: Bewerten zweier Prüflinge nach den vier Bereichen des ISB-Rasters" width="1440" height="900" loading="lazy" decoding="async"></a></div>
 <div class="meta"><div><h3 class="nm"><a href="voce/"><img src="assets/img/viva-icon.png?v=860ed09d" alt="" width="48" height="48">Voce</a></h3><p>Mündliche Schulaufgaben planen, nach den Rastern für Bayern bewerten und den Bogen für jede Schülerin und jeden Schüler ausgeben.</p><p class="small st">Mac und Windows, Version 2.0 · <a href="voce/demo/">im Browser testen</a></p></div><a class="btn" href="voce/">Voce ansehen</a></div></article><article class="panel a-foliva" id="p-foliva"><div class="pic"><a class="pl" href="foliva/" tabindex="-1" aria-hidden="true"><img src="assets/img/foliva-editor.webp?v=d4088abc" alt="Foliva: Bildschirmfoto" width="1440" height="900" loading="lazy" decoding="async"></a></div>
 <div class="meta"><div><h3 class="nm"><a href="foliva/"><img src="assets/img/foliva-icon.png?v=f124768c" alt="" width="48" height="48">Foliva</a></h3><p>Arbeitsblätter und Proben gestalten, mit Lösungsblatt auf Knopfdruck und rund 600 Vorlagen.</p><p class="small st">Mac und Windows, Beta 0.9 · <a href="foliva/demo/">im Browser testen</a></p></div><a class="btn" href="foliva/">Foliva ansehen</a></div></article><article class="panel a-aula" id="p-aula"><div class="pic"><a class="pl" href="aula/" tabindex="-1" aria-hidden="true"><img src="assets/img/aula-uebersicht.webp?v=28c318d1" alt="Aula: Übersicht mit aktueller Stunde, Restzeit-Ring, Wochenblick und Tagesband" width="1440" height="900" loading="lazy" decoding="async"></a></div>
